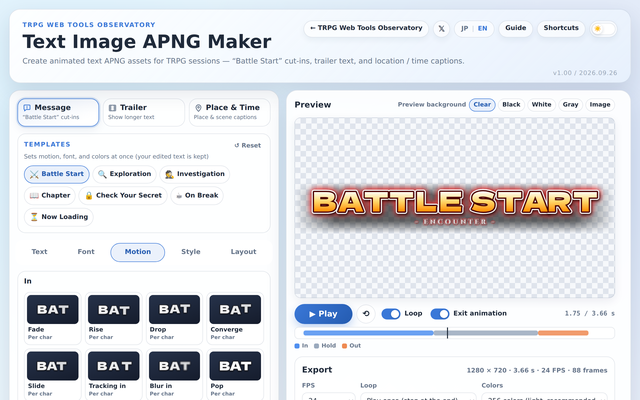
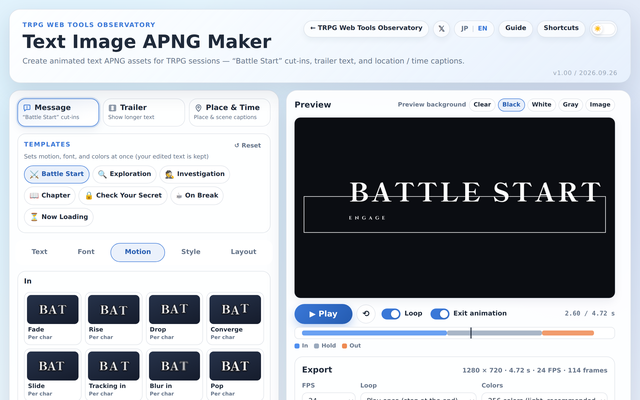
text-apng-maker: title-frame decoration, new 戦闘開始 and 秘匿確認 designs
- New decoration "タイトル枠 / Title frame": a thin outline frame whose top
  edge (right edge in vertical writing) runs through the lower part of the
  last main line, so the title sits on the frame and the sub text is
  inside. Its sides extend up to the image edge (extend, max 12em), it can
  be filled, and the "grow" animation draws the outline in one stroke.
- 戦闘開始: white bold mincho sitting on a wide white frame, left-offset,
  with BATTLE START inside; characters shrink in one by one after the
  frame draws.
- 秘匿を確認してください: blue, system-style panel (dark navy box with a
  blue border, monospace SECRET HANDOUT label, typewriter text).
- A "grow" box now opens before the text appears, like the band and the
  frame (also delays the boxed caption template's text by 0.3 s).
- Portal preview image and changelog updated.

Claude-Session: https://claude.ai/code/session_013hWfJet5i31SpNDXtNyTfa

diff --git a/tools/text-apng-maker/js/engine.js b/tools/text-apng-maker/js/engine.js
@@ -546,6 +546,8 @@
       case 'sides': return v ? { l: 0, r: 0, t: pad + ext, b: pad + ext } : { l: pad + ext, r: pad + ext, t: 0, b: 0 };
       case 'bar': return v ? { l: 0, r: pad + th, t: 0, b: 0 } : { l: pad + th, r: 0, t: 0, b: 0 };
       case 'band': return v ? { l: pad, r: pad, t: 0, b: 0 } : { l: 0, r: 0, t: pad, b: pad };
+      // タイトル枠：上辺（縦書きは右辺）は文字を横切るので外へは出ない。左右（縦書きは上下）の延長は画面内に収めて描く
+      case 'frame': return v ? { l: pad + th, r: 0, t: pad + th, b: pad + th } : { l: pad + th, r: pad + th, t: 0, b: pad + th };
       default: return { l: 0, r: 0, t: 0, b: 0 };
     }
   }
@@ -786,7 +788,9 @@
       const isLast = pi === layout.pages.length - 1;
       const pg = { index: pi, blockIn: null, blockOut: null, decoIn: null, decoOut: null, scroll: null, cursor: null };
       const pageStart = cursor;
-      const lead = decoAnimated && deco.type === 'band' ? Math.min(0.3, decoDur * 0.6) : 0;
+      // 帯・枠が開いてから文字が出る（ボックスは「伸びる」ときだけ）
+      const opensFirst = deco.type === 'band' || deco.type === 'frame' || (deco.type === 'box' && deco.anim === 'grow');
+      const lead = decoAnimated && opensFirst ? Math.min(0.3, decoDur * 0.6) : 0;
       const textStart = pageStart + lead;
       if (decoAnimated) pg.decoIn = { start: pageStart, dur: decoDur };
       const pageGlyphs = glyphs.slice(page.first, page.last);
@@ -1806,6 +1810,54 @@
           corner(x0, y1, 1, -1);
           corner(x1, y1, -1, -1);
           ctx.stroke();
+          break;
+        }
+        case 'frame': {
+          // タイトル枠：最後の行の下寄り（インクの高さの72%）を上辺が横切り、文字が枠に乗って見える。
+          // 残りの辺はサブテキストを囲み、左右（縦書きは上下）は extend の分だけ延ばして画面の内側で止める
+          const CROSS = 0.72;
+          const mm = page.mainMetrics || { inkA: size * 0.8, inkD: size * 0.12 };
+          const inset = Math.max(th, (scene.marginX ?? 64) * 0.5);
+          let x0, y0, x1, y1;
+          if (!vertical) {
+            const lineH = mm.inkA + mm.inkD;
+            y0 = mb.y1 - lineH * (1 - CROSS);
+            y1 = Math.max(box.y1, y0 + size * 0.55) + pad;
+            x0 = Math.max(-bs.x + inset, box.x0 - pad - ext);
+            x1 = Math.min(W - bs.x - inset, box.x1 + pad + ext);
+          } else {
+            x1 = mb.x0 + size * (1 - CROSS);
+            x0 = Math.min(box.x0, x1 - size * 0.55) - pad;
+            y0 = Math.max(-bs.y + inset, box.y0 - pad - ext);
+            y1 = Math.min(H - bs.y - inset, box.y1 + pad + ext);
+          }
+          if (x1 - x0 < 1 || y1 - y0 < 1) break;
+          const fillA = clamp(d.opacity ?? 0) * (grow ? clamp(g * 1.5) : 1);
+          if (fillA > 0.002) {
+            ctx.save();
+            ctx.globalAlpha = alpha * fillA;
+            ctx.fillStyle = d.color || '#000000';
+            ctx.fillRect(x0, y0, x1 - x0, y1 - y0);
+            ctx.restore();
+          }
+          if ((d.thickness || 0) > 0) {
+            // 伸びるアニメーションでは、上辺（縦書きは右辺）の始点から一筆書きで線が伸びる／消える
+            const w = x1 - x0, h = y1 - y0, perimeter = 2 * (w + h);
+            ctx.strokeStyle = lineColor;
+            ctx.lineWidth = th;
+            ctx.lineCap = 'butt';
+            ctx.lineJoin = 'miter';
+            if (grow && g < 0.999) ctx.setLineDash([perimeter * g, perimeter]);
+            ctx.beginPath();
+            if (!vertical) {
+              ctx.moveTo(x0, y0); ctx.lineTo(x1, y0); ctx.lineTo(x1, y1); ctx.lineTo(x0, y1);
+            } else {
+              ctx.moveTo(x1, y0); ctx.lineTo(x1, y1); ctx.lineTo(x0, y1); ctx.lineTo(x0, y0);
+            }
+            ctx.closePath();
+            ctx.stroke();
+            ctx.setLineDash([]);
+          }
           break;
         }
         default: break;

diff --git a/tools/text-apng-maker/js/presets.js b/tools/text-apng-maker/js/presets.js
@@ -85,17 +85,17 @@
     message: [
       {
         id: 'battle', icon: '⚔', label: T('戦闘開始', 'Battle Start'),
-        text: T('戦闘開始', 'BATTLE START'), subText: T('- BATTLE START -', '- ENCOUNTER -'),
+        text: T('戦闘開始', 'BATTLE START'), subText: T('BATTLE START', 'ENGAGE'),
         patch: {
-          fontId: 'dela-gothic-one', weight: 400, fontSize: 150, letterSpacing: 0.06,
-          subFontId: 'cinzel', subWeight: 700, subSize: 0.24, subLetterSpacing: 0.35, subGap: 0.28,
-          fill: { type: 'gradient', color: '#ffffff', color2: '#ffd76a', color3: '#ff8a00', dir: 'v' },
-          stroke: { on: true, width: 7, color: '#4a0000' }, stroke2: { on: true, width: 6, color: '#ffffff' },
-          shadow: { on: true, color: '#000000', opacity: 0.7, blur: 14, x: 4, y: 8 },
-          glow: { on: true, color: '#ff3030', size: 36, strength: 1.3 },
-          subColorOn: true, subColor: '#ffffff',
-          deco: { type: 'band', color: '#000000', opacity: 0.6, pad: 0.35, soft: 0.5, sideFade: 0.25, anim: 'grow', dur: 0.4 },
-          inFx: 'slam', inDur: 0.75, hold: 1.2, outFx: 'zoomThrough', outDur: 0.5, subFx: 'fade', subDelay: -0.1
+          anchor: 'ml', marginX: 72, offsetX: 96, align: 'start',
+          fontId: 'shippori-mincho-b1', weight: 800, fontSize: 132, letterSpacing: 0.1,
+          subFontId: 'cinzel', subWeight: 700, subSize: 0.19, subLetterSpacing: 0.6, subGap: 0.55,
+          fill: { type: 'solid', color: '#ffffff' },
+          stroke: { on: false }, stroke2: { on: false },
+          shadow: { on: true, color: '#000000', opacity: 0.35, blur: 10, x: 0, y: 3 },
+          glow: { on: false },
+          deco: { type: 'frame', color: '#000000', opacity: 0, color2: '#ffffff', thickness: 3, pad: 0.5, extend: 12, anim: 'grow', dur: 0.6 },
+          inFx: 'shrinkIn', inDur: 0.45, inStagger: 0.09, inPower: 0.8, hold: 1.4, outFx: 'zoomThrough', outDur: 0.5, subFx: 'fade', subDelay: -0.1
         }
       },
       {
@@ -140,15 +140,15 @@
         id: 'secret', icon: '🔒', label: T('秘匿を確認してください', 'Check Your Secret'),
         text: T('秘匿を確認してください', 'CHECK YOUR SECRET'), subText: T('SECRET HANDOUT', 'SECRET HANDOUT'),
         patch: {
-          fontId: 'zen-kaku-gothic-new', weight: 700, fontSize: 80, letterSpacing: 0.12,
-          subPosition: 'above', subFontId: 'oswald', subWeight: 700, subSize: 0.34, subLetterSpacing: 0.5, subGap: 0.35,
+          fontId: 'zen-kaku-gothic-new', weight: 700, fontSize: 72, letterSpacing: 0.1,
+          subPosition: 'above', subFontId: 'share-tech-mono', subWeight: 400, subSize: 0.32, subLetterSpacing: 0.35, subGap: 0.45,
           fill: { type: 'solid', color: '#ffffff' },
-          stroke: { on: true, width: 3, color: '#14060a' }, stroke2: { on: false },
-          shadow: { on: true, color: '#000000', opacity: 0.7, blur: 12, x: 0, y: 4 },
-          glow: { on: false },
-          subColorOn: true, subColor: '#ff5c6c',
-          deco: { type: 'box', color: '#0d0609', opacity: 0.72, color2: '#ff5c6c', pad: 0.45, thickness: 3, radius: 0.08, anim: 'grow', dur: 0.4 },
-          inFx: 'blurIn', inDur: 0.7, inStagger: 0.03, hold: 2, outFx: 'blurOut', outDur: 0.6, outStagger: 0.02, subFx: 'fade', subDelay: -0.3
+          stroke: { on: false }, stroke2: { on: false },
+          shadow: { on: true, color: '#020b1a', opacity: 0.6, blur: 8, x: 0, y: 2 },
+          glow: { on: true, color: '#3a8dff', size: 14, strength: 0.55 },
+          subColorOn: true, subColor: '#8cc4ff',
+          deco: { type: 'box', color: '#081a33', opacity: 0.85, color2: '#3a8dff', pad: 0.5, thickness: 2, radius: 0.14, anim: 'grow', dur: 0.4 },
+          inFx: 'typewriter', inStagger: 0.05, hold: 2, outFx: 'fade', outDur: 0.45, subFx: 'fade', subDelay: -3
         }
       },
       {

diff --git a/tools/text-apng-maker/js/controls.js b/tools/text-apng-maker/js/controls.js
@@ -112,6 +112,7 @@
       { value: 'none', label: T('なし', 'None') },
       { value: 'band', label: T('帯', 'Band') },
       { value: 'box', label: T('ボックス', 'Box') },
+      { value: 'frame', label: T('タイトル枠', 'Title frame') },
       { value: 'lines', label: T('上下ライン', 'Lines') },
       { value: 'underline', label: T('下線', 'Underline') },
       { value: 'sides', label: T('サイドライン', 'Side lines') },
@@ -302,13 +303,14 @@
       { type: 'section', label: T('装飾', 'Decoration'), children: [
         { type: 'chips', bind: 'deco.type', options: OPT.deco },
         { type: 'colors', when: s => s.deco.type !== 'none', items: [
-          { bind: 'deco.color', label: T('塗り', 'Fill'), when: decoIs('band', 'box') },
-          { bind: 'deco.color2', label: T('線', 'Line'), when: decoIs('box', 'lines', 'underline', 'sides', 'bar', 'corners') }
+          { bind: 'deco.color', label: T('塗り', 'Fill'), when: decoIs('band', 'box', 'frame') },
+          { bind: 'deco.color2', label: T('線', 'Line'), when: decoIs('box', 'frame', 'lines', 'underline', 'sides', 'bar', 'corners') }
         ] },
-        { type: 'range', bind: 'deco.opacity', when: decoIs('band', 'box'), label: T('塗りの濃さ', 'Fill opacity'), min: 0, max: 1, step: 0.01, format: 'pct' },
-        { type: 'range', bind: 'deco.thickness', when: decoIs('box', 'lines', 'underline', 'sides', 'bar', 'corners'), label: s => (s.deco.type === 'box' ? T('枠線の太さ（0で枠なし）', 'Border width (0 = none)') : T('線の太さ', 'Line width')), min: 0, max: 16, step: 0.5, format: 'px' },
+        { type: 'range', bind: 'deco.opacity', when: decoIs('band', 'box', 'frame'), label: T('塗りの濃さ', 'Fill opacity'), min: 0, max: 1, step: 0.01, format: 'pct' },
+        { type: 'range', bind: 'deco.thickness', when: decoIs('box', 'frame', 'lines', 'underline', 'sides', 'bar', 'corners'), label: s => (['box', 'frame'].includes(s.deco.type) ? T('枠線の太さ（0で枠なし）', 'Border width (0 = none)') : T('線の太さ', 'Line width')), min: 0, max: 16, step: 0.5, format: 'px' },
         { type: 'range', bind: 'deco.pad', when: s => s.deco.type !== 'none', label: T('文字との余白', 'Padding'), min: 0, max: 2, step: 0.01, format: 'em' },
         { type: 'range', bind: 'deco.extend', when: decoIs('lines', 'underline', 'sides'), label: T('線の長さ', 'Line length'), min: 0, max: 4, step: 0.05, format: 'em' },
+        { type: 'range', bind: 'deco.extend', when: decoIs('frame'), label: T('枠の広がり（画面の端で止まります）', 'Frame extension (stops at the image edge)'), min: 0, max: 12, step: 0.1, format: 'em' },
         { type: 'range', bind: 'deco.soft', when: decoIs('band'), label: T('ふちのぼかし', 'Edge softness'), min: 0, max: 1, step: 0.01, format: 'pct' },
         { type: 'range', bind: 'deco.sideFade', when: decoIs('band'), label: T('両端のフェード', 'End fade'), min: 0, max: 1, step: 0.01, format: 'pct' },
         { type: 'range', bind: 'deco.radius', when: decoIs('box'), label: T('角の丸み', 'Corner radius'), min: 0, max: 1, step: 0.01, format: 'em' },

diff --git a/changelog.html b/changelog.html
@@ -98,7 +98,7 @@
           <li>「戦闘開始」などのカットイン、トレイラーの文章演出、場所・時間のテロップを、背景が透明な動くAPNG素材として作成できる新ツールを追加しました。</li>
           <li>メッセージ／トレイラー／場所・時間の3モードに、叩きつけ・グリッチ・上下から合流・字間が縮まるなどの登場／退場エフェクトと、表示中の動き（ふわふわ・震えなど）を用意しました。</li>
           <li>プレビュー下の「退場あり」スイッチで、登場のあとに退場させるかどうかを切り替えられます。オフにすると、文字を表示したまま終わる素材を作れます。</li>
-          <li>Google Fontsやフォントファイルの読み込み、グラデーション・縁取り・影・光彩、帯やラインなどの装飾、縦書きに対応しました。</li>
+          <li>Google Fontsやフォントファイルの読み込み、グラデーション・縁取り・影・光彩、帯・タイトル枠・ラインなどの装飾、縦書きに対応しました。</li>
           <li>APNGのほか、PNG静止画・連番PNG（ZIP）でも書き出せます。ファイル名は文章や動きの設定から自動で入力されます。画面表示は日本語／英語を切り替えられます。</li>
         </ul>
       </article>
